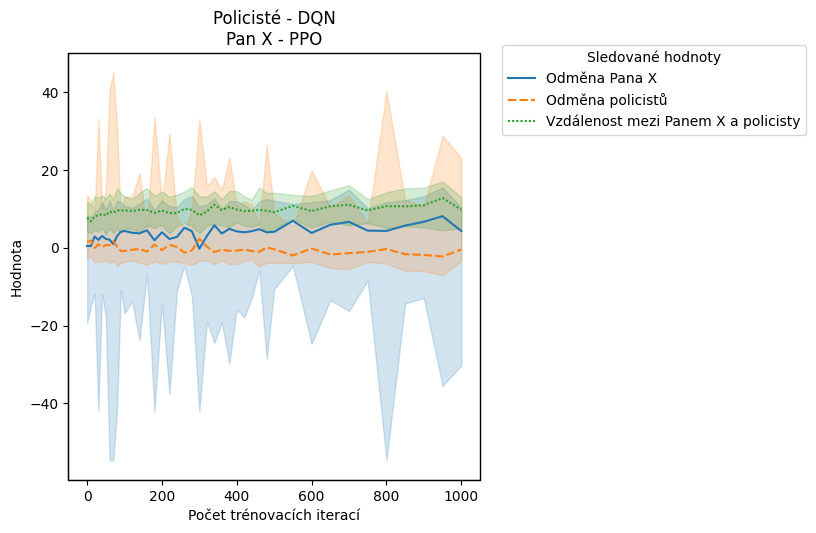
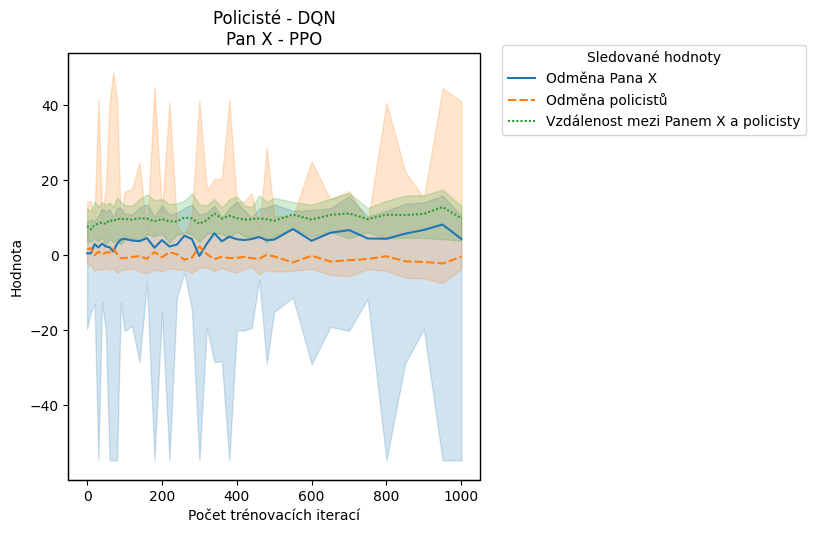
Simulations done 2

diff --git a/src/SimulationProcessor.py b/src/SimulationProcessor.py
@@ -42,7 +42,7 @@ class SimulationProcessor:
             hue='variable',
             style='variable',
             kind='line',
-            errorbar=("pi", 98),
+            errorbar=("pi", 100),
             facet_kws=dict(legend_out=False),
             data=dataframe.melt(id_vars='train_iteration',
                                 value_vars=['mr_x_avg_reward', 'cops_avg_reward',
@@ -79,41 +79,80 @@ class SimulationProcessor:
         dataframe_cop_dqn_mr_x_random = self.get_dataframe_for(DefinedAlgorithms.DQN, DefinedAlgorithms.RANDOM)
         dataframe_cop_dqn_mr_x_dqn = self.get_dataframe_for(DefinedAlgorithms.DQN, DefinedAlgorithms.DQN)
 
-        number_of_victories_ppo_against_random = len(
+        victories_ppo_cop_vs_mrx_random = len(
             dataframe_cop_ppo_mr_x_random[dataframe_cop_ppo_mr_x_random["game_result"] == GameStatus.COPS_WON.value])
-        number_of_victories_ppo_against_random += len(
+        games_ppo_cop_vs_mrx_random = len(dataframe_cop_ppo_mr_x_random)
+        victories_ppo_mrx_vs_cop_random = len(
             dataframe_cop_random_mr_x_ppo[dataframe_cop_random_mr_x_ppo["game_result"] == GameStatus.MR_X_WON.value])
-        total_games_ppo_against_random = len(dataframe_cop_ppo_mr_x_random) + len(dataframe_cop_random_mr_x_ppo)
+        games_ppo_mrx_vs_cop_random = len(dataframe_cop_random_mr_x_ppo)
+        total_games_ppo_vs_random = len(dataframe_cop_ppo_mr_x_random) + len(dataframe_cop_random_mr_x_ppo)
+        victories_ppo_vs_random = victories_ppo_cop_vs_mrx_random + victories_ppo_mrx_vs_cop_random
 
-        number_of_victories_ppo_against_dqn = len(
+        victories_ppo_cop_vs_mrx_ppo = len(
+            dataframe_cop_ppo_mr_x_ppo[dataframe_cop_ppo_mr_x_ppo["game_result"] == GameStatus.COPS_WON.value])
+        victories_ppo_mrx_vs_cop_ppo = len(
+            dataframe_cop_ppo_mr_x_ppo[dataframe_cop_ppo_mr_x_ppo["game_result"] == GameStatus.MR_X_WON.value])
+        total_games_ppo_vs_ppo = len(dataframe_cop_ppo_mr_x_ppo) + len(dataframe_cop_ppo_mr_x_ppo)
+
+        victories_ppo_cop_vs_mrx_dqn = len(
             dataframe_cop_ppo_mr_x_dqn[dataframe_cop_ppo_mr_x_dqn["game_result"] == GameStatus.COPS_WON.value])
-        number_of_victories_ppo_against_dqn += len(
+        games_ppo_cop_vs_mrx_dqn = len(dataframe_cop_ppo_mr_x_dqn)
+        victories_ppo_mrx_vs_cop_dqn = len(
             dataframe_cop_dqn_mr_x_ppo[dataframe_cop_dqn_mr_x_ppo["game_result"] == GameStatus.MR_X_WON.value])
-        total_games_ppo_against_dqn = len(dataframe_cop_ppo_mr_x_dqn) + len(dataframe_cop_dqn_mr_x_ppo)
+        games_ppo_mrx_vs_cop_dqn = len(dataframe_cop_dqn_mr_x_ppo)
+        total_games_ppo_vs_dqn = len(dataframe_cop_ppo_mr_x_dqn) + len(dataframe_cop_dqn_mr_x_ppo)
+        victories_ppo_vs_dqn = victories_ppo_cop_vs_mrx_dqn + victories_ppo_mrx_vs_cop_dqn
 
-        number_of_victories_dqn_against_random = len(
+        victories_dqn_cop_vs_mrx_random = len(
             dataframe_cop_dqn_mr_x_random[dataframe_cop_dqn_mr_x_random["game_result"] == GameStatus.COPS_WON.value])
-        number_of_victories_dqn_against_random += len(
+        games_dqn_cop_vs_mrx_random = len(dataframe_cop_dqn_mr_x_random)
+        victories_dqn_mrx_vs_cop_random = len(
             dataframe_cop_random_mr_x_dqn[dataframe_cop_random_mr_x_dqn["game_result"] == GameStatus.MR_X_WON.value])
-        total_games_dqn_against_random = len(dataframe_cop_dqn_mr_x_random) + len(dataframe_cop_random_mr_x_dqn)
+        games_dqn_mrx_vs_cop_random = len(dataframe_cop_random_mr_x_dqn)
+        total_games_dqn_vs_random = len(dataframe_cop_dqn_mr_x_random) + len(dataframe_cop_random_mr_x_dqn)
+        victories_dqn_vs_random = victories_dqn_cop_vs_mrx_random + victories_dqn_mrx_vs_cop_random
 
         ppo_avg_distance_to_cop = dataframe_cop_ppo_mr_x_ppo["mr_x_avg_distance_to_cop"].mean()
         random_avg_distance_to_cop = dataframe_cop_random_mr_x_random["mr_x_avg_distance_to_cop"].mean()
         dqn_avg_distance_to_cop = dataframe_cop_dqn_mr_x_dqn["mr_x_avg_distance_to_cop"].mean()
+        random_vs_random_cop_wins = len(
+            dataframe_cop_random_mr_x_random[
+                dataframe_cop_random_mr_x_random["game_result"] == GameStatus.COPS_WON.value])
+        total_games_random_vs_random = len(dataframe_cop_random_mr_x_random)
 
         text = f"""Výsledky simulace:
-        Počet výher PPO proti Random: {number_of_victories_ppo_against_random}/{total_games_ppo_against_random}
-        Počet výher PPO proti DQN: {number_of_victories_ppo_against_dqn}/{total_games_ppo_against_dqn}
-        Počet výher DQN proti Random: {number_of_victories_dqn_against_random}/{total_games_dqn_against_random}
+        Počet výher PPO policistů proti náhodnému Panu X: {victories_ppo_cop_vs_mrx_random}/{total_games_ppo_vs_random}
+        Počet výher náhodného Pana X proti PPO policistům: {games_ppo_cop_vs_mrx_random - victories_ppo_cop_vs_mrx_random}/{total_games_ppo_vs_random}
+        Počet výher PPO Panu X proti náhodným policistům: {victories_ppo_mrx_vs_cop_random}/{total_games_ppo_vs_random}
+        Počet výher náhodných policistů proti PPO Panu X: {games_ppo_mrx_vs_cop_random - victories_ppo_mrx_vs_cop_random}/{total_games_ppo_vs_random}
+        Počet výher PPO proti náhodnému agentovi: {victories_ppo_vs_random}/{total_games_ppo_vs_random}
+        
+        Počet výher PPO policistů proti PPO Panu X: {victories_ppo_cop_vs_mrx_ppo}/{total_games_ppo_vs_ppo}
+        Počet výher PPO Panu X proti PPO policistům: {victories_ppo_mrx_vs_cop_ppo}/{total_games_ppo_vs_ppo}
+        
+        Počet výher PPO policistů proti DQN Panu X: {victories_ppo_cop_vs_mrx_dqn}/{total_games_ppo_vs_dqn}
+        Počet výher DQN Panu X proti PPO policistům: {games_ppo_cop_vs_mrx_dqn - victories_ppo_cop_vs_mrx_dqn}/{total_games_ppo_vs_dqn}
+        Počet výher PPO Panu X proti DQN policistům: {victories_ppo_mrx_vs_cop_dqn}/{total_games_ppo_vs_dqn}
+        Počet výher DQN policistů proti PPO Panu X: {games_ppo_mrx_vs_cop_dqn - victories_ppo_mrx_vs_cop_dqn}/{total_games_ppo_vs_dqn}
+        Počet výher PPO proti DQN agentovi: {victories_ppo_vs_dqn}/{total_games_ppo_vs_dqn}
+        
+        Počet výher DQN policistů proti náhodnému Panu X: {victories_dqn_cop_vs_mrx_random}/{total_games_dqn_vs_random} 
+        Počet výher náhodného Pana X proti DQN policistům: {games_dqn_cop_vs_mrx_random - victories_dqn_cop_vs_mrx_random}/{total_games_dqn_vs_random}
+        Počet výher DQN Panu X proti náhodným policistům: {victories_dqn_mrx_vs_cop_random}/{total_games_dqn_vs_random}
+        Počet výher náhodných policistů proti DQN Panu X: {games_dqn_mrx_vs_cop_random - victories_dqn_mrx_vs_cop_random}/{total_games_dqn_vs_random}
+        Počet výher DQN proti náhodnému agentovi: {victories_dqn_vs_random}/{total_games_dqn_vs_random}
+        
+        Počet výher náhodných policistů proti náhodnému Panu X: {random_vs_random_cop_wins}/{total_games_random_vs_random}
+        
         Průměrná vzdálenost mezi Panem X a policisty (PPO): {ppo_avg_distance_to_cop}
-        Průměrná vzdálenost mezi Panem X a policisty (Random): {random_avg_distance_to_cop}
+        Průměrná vzdálenost mezi Panem X a policisty (náhodný): {random_avg_distance_to_cop}
         Průměrná vzdálenost mezi Panem X a policisty (DQN): {dqn_avg_distance_to_cop}
         """
 
         file = open(f"{self.graphs_dir}/results.txt", "w", encoding="utf-8")
         file.write(text)
         file.close()
-        
+
         print(text)
 
 
